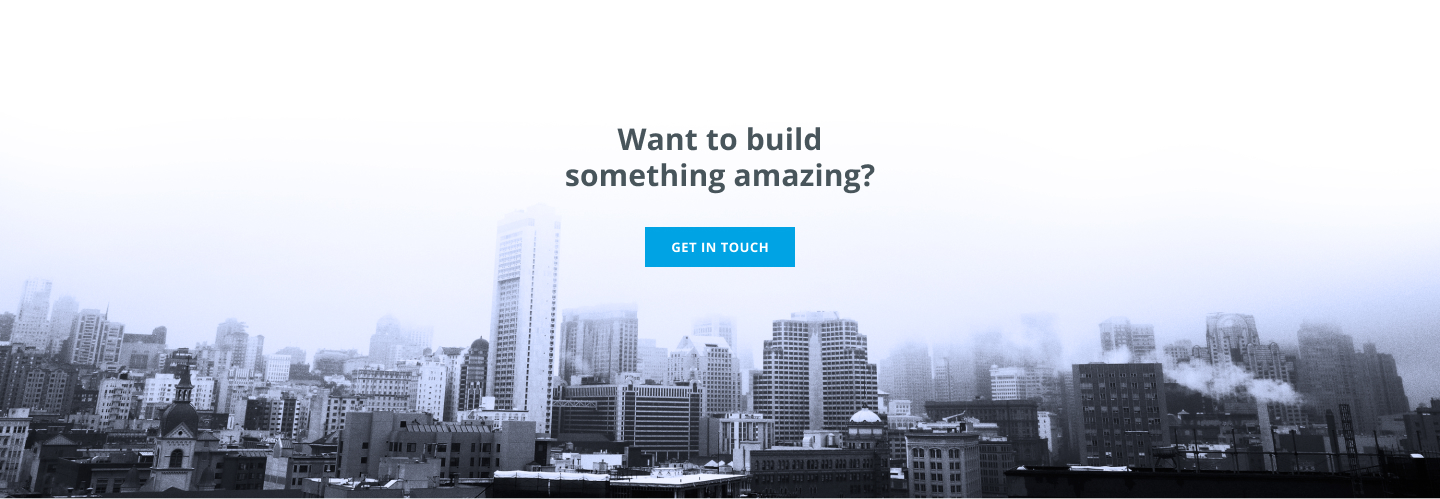
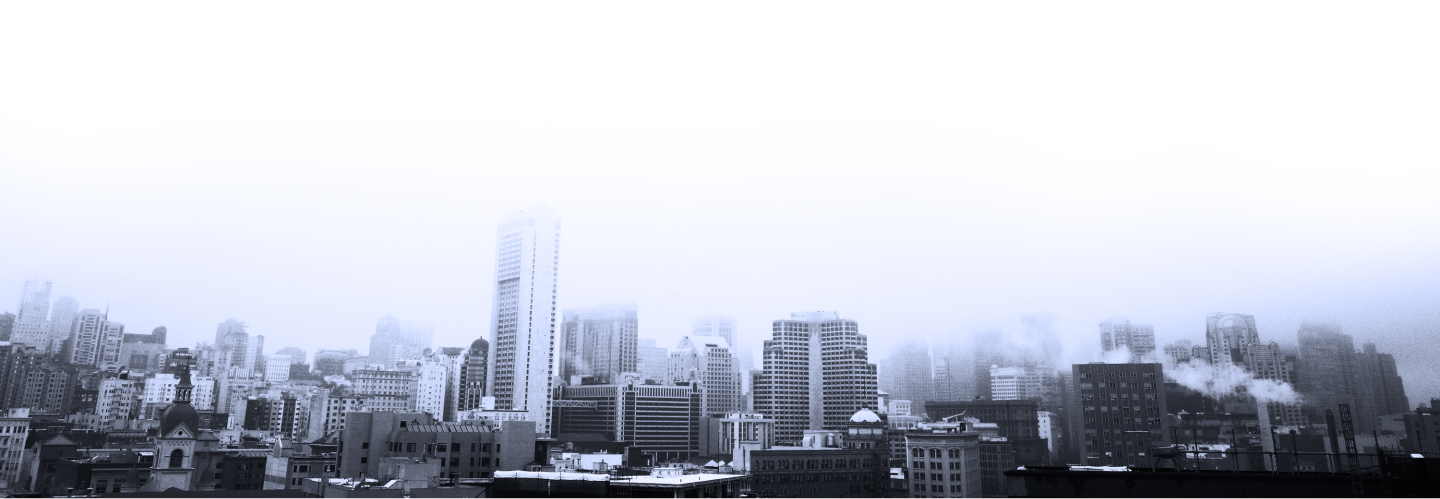
create touch

Changed region(s): [[0.375, 0.3307, 0.625, 0.3908], [0.4375, 0.4509, 0.5625, 0.5411], [0.4062, 0.2405, 0.5938, 0.3006]]

diff --git a/css/style.min.css b/css/style.min.css
@@ -1,1 +1,1 @@
-*,*::before,*::after{padding:0;margin:0;border:0;box-sizing:border-box}a{text-decoration:none}ul,ol,li{list-style:none}img{vertical-align:top}h1,h2,h3,h4,h5,h6{font-weight:inherit;font-size:inherit}.wrapper{min-height:100%;display:flex;flex-direction:column;overflow:hidden}.container{max-width:970px;margin:0 auto;padding:0 15px}html,body{height:100%;line-height:1;font-family:"Open Sans",sans-serif;color:#48555b}.main{flex:1 1 auto}.title{font-size:18px;line-height:21px;text-align:center;letter-spacing:2.30625px;margin-bottom:80px;font-weight:bold}.btn{background:#00a4e5;color:#fff;padding:10px 30px;cursor:pointer;transition:.3s}.btn:hover{background:#48555b}.header{background:url(../img/home-background.jpg);background-repeat:no-repeat;background-position:center center;-webkit-background-size:cover;-moz-background-size:cover;-o-background-size:cover;background-size:cover;min-height:100vh;width:100%;padding:41px 0 71px 0}.header__logo{margin-bottom:308px}.header__container{display:flex;flex-direction:column;align-items:center;color:#fff}.header__title{font-family:"Bebas Neue",cursive;font-size:60px;line-height:70px;letter-spacing:5.70937px;margin-bottom:8px}.header__subtitle{font-size:16px;line-height:19px;margin-bottom:221px}.header__scroll{font-size:11px;line-height:13px;letter-spacing:3.7px}.menu{display:flex;justify-content:space-between;align-items:center;height:65px;margin-bottom:60px}.menu__list{display:flex}.menu__item{margin-right:30px}.menu__item:last-child{margin-right:0}.menu__link{font-family:"OpenSans";font-size:12px;line-height:14px;letter-spacing:1.09091px;color:#48555b;transition:.3s;font-weight:600}.menu__link.active{color:#00a4e5}.menu__link:hover{color:#00a4e5}.story{margin-bottom:120px}.story__content{display:flex}.story__left{max-width:405px;margin-right:80px}.story__title{font-size:18px;line-height:21px;text-align:center;letter-spacing:2.30625px;margin-bottom:80px;font-weight:bold}.story__title::after{content:"";width:50px;height:2px;background-color:#00a4e5;display:block;margin:10px auto 0}.story__content-title{font-size:20px;line-height:23px;letter-spacing:.1875px;margin-bottom:30px;font-weight:bold}.story__content-title span{color:#00a4e5}.story__subtitle{font-size:13px;line-height:23px;letter-spacing:.1875px}.story__card{display:flex;align-items:flex-end}.story__item{font-size:24px;line-height:29px;letter-spacing:.1875px;color:#fff;width:140px;height:224px;font-weight:800;margin-right:20px;padding:15px}.story__item:last-child{margin-right:0}.story__item:nth-child(1){background-image:url(../img/story/plan.jpg)}.story__item:nth-child(2){background-image:url(../img/story/manage.jpg)}.story__item:nth-child(3){background-image:url(../img/story/deliver.jpg)}@media(max-width: 1024px){.story__title{margin-bottom:30px}.story__subtitle{margin-bottom:30px}.story__content{flex-wrap:wrap;justify-content:center}}@media(max-width: 525px){.story__left{margin-right:0}.story__card{flex-wrap:wrap;justify-content:center}.story__item{margin-bottom:30px;margin-right:0}.story__item:last-child{margin-bottom:0}}.capabilities{margin-bottom:115px}.capabilities__info{display:flex;justify-content:space-between;margin-bottom:80px}.capabilities__title{text-align:left;margin-bottom:0}.capabilities__title::after{content:"";width:50px;height:2px;background-color:#00a4e5;display:block;margin:10px 0}.capabilities__subtitle{max-width:405px;margin-right:32px}.capabilities__content{display:flex;justify-content:space-between}.card{max-width:295px;padding:38px 22px;border:1px solid #e6e6e6}.card__title{font-size:16px;line-height:24px;letter-spacing:.426667px;color:#48555b;font-weight:bold;margin-bottom:13px}.card__icon{margin-bottom:25px}@media(max-width: 1024px){.capabilities__info{flex-wrap:wrap;justify-content:center;margin-bottom:50px}.capabilities__content{flex-wrap:wrap;justify-content:center}.capabilities__card{margin-bottom:30px}.capabilities__card:last-child{margin-bottom:0}.capabilities__title{margin-bottom:30px}.capabilities__subtitle{margin-bottom:30px}}/*# sourceMappingURL=style.min.css.map */
+*,*::before,*::after{padding:0;margin:0;border:0;box-sizing:border-box}a{text-decoration:none}ul,ol,li{list-style:none}img{vertical-align:top}h1,h2,h3,h4,h5,h6{font-weight:inherit;font-size:inherit}.wrapper{min-height:100%;display:flex;flex-direction:column;overflow:hidden}.container{max-width:970px;margin:0 auto;padding:0 15px}html,body{height:100%;line-height:1;font-family:"Open Sans",sans-serif;color:#48555b}.main{flex:1 1 auto}.title{font-size:18px;line-height:21px;text-align:center;letter-spacing:2.30625px;margin-bottom:80px;font-weight:bold}.btn{background:#00a4e5;color:#fff;padding:10px 30px;cursor:pointer;transition:.3s}.btn:hover{background:#48555b}.header{background:url(../img/home-background.jpg);background-repeat:no-repeat;background-position:center center;-webkit-background-size:cover;-moz-background-size:cover;-o-background-size:cover;background-size:cover;min-height:100vh;width:100%;padding:41px 0 71px 0}.header__logo{margin-bottom:308px}.header__container{display:flex;flex-direction:column;align-items:center;color:#fff}.header__title{font-family:"Bebas Neue",cursive;font-size:60px;line-height:70px;letter-spacing:5.70937px;margin-bottom:8px}.header__subtitle{font-size:16px;line-height:19px;margin-bottom:221px}.header__scroll{font-size:11px;line-height:13px;letter-spacing:3.7px}.menu{display:flex;justify-content:space-between;align-items:center;height:65px;margin-bottom:60px}.menu__list{display:flex}.menu__item{margin-right:30px}.menu__item:last-child{margin-right:0}.menu__link{font-family:"OpenSans";font-size:12px;line-height:14px;letter-spacing:1.09091px;color:#48555b;transition:.3s;font-weight:600}.menu__link.active{color:#00a4e5}.menu__link:hover{color:#00a4e5}.story{margin-bottom:120px}.story__content{display:flex}.story__left{max-width:405px;margin-right:80px}.story__title{font-size:18px;line-height:21px;text-align:center;letter-spacing:2.30625px;margin-bottom:80px;font-weight:bold}.story__title::after{content:"";width:50px;height:2px;background-color:#00a4e5;display:block;margin:10px auto 0}.story__content-title{font-size:20px;line-height:23px;letter-spacing:.1875px;margin-bottom:30px;font-weight:bold}.story__content-title span{color:#00a4e5}.story__subtitle{font-size:13px;line-height:23px;letter-spacing:.1875px}.story__card{display:flex;align-items:flex-end}.story__item{font-size:24px;line-height:29px;letter-spacing:.1875px;color:#fff;width:140px;height:224px;font-weight:800;margin-right:20px;padding:15px}.story__item:last-child{margin-right:0}.story__item:nth-child(1){background-image:url(../img/story/plan.jpg)}.story__item:nth-child(2){background-image:url(../img/story/manage.jpg)}.story__item:nth-child(3){background-image:url(../img/story/deliver.jpg)}@media(max-width: 1024px){.story__title{margin-bottom:30px}.story__subtitle{margin-bottom:30px}.story__content{flex-wrap:wrap;justify-content:center}}@media(max-width: 525px){.story__left{margin-right:0}.story__card{flex-wrap:wrap;justify-content:center}.story__item{margin-bottom:30px;margin-right:0}.story__item:last-child{margin-bottom:0}}.capabilities{margin-bottom:115px}.capabilities__info{display:flex;justify-content:space-between;margin-bottom:80px}.capabilities__title{text-align:left;margin-bottom:0}.capabilities__title::after{content:"";width:50px;height:2px;background-color:#00a4e5;display:block;margin:10px 0}.capabilities__subtitle{max-width:405px;margin-right:32px}.capabilities__content{display:flex;justify-content:space-between}.card{max-width:295px;padding:38px 22px;border:1px solid #e6e6e6}.card__title{font-size:16px;line-height:24px;letter-spacing:.426667px;color:#48555b;font-weight:bold;margin-bottom:13px}.card__icon{margin-bottom:25px}@media(max-width: 1024px){.capabilities__info{flex-wrap:wrap;justify-content:center;margin-bottom:50px}.capabilities__content{flex-wrap:wrap;justify-content:center}.capabilities__card{margin-bottom:30px}.capabilities__card:last-child{margin-bottom:0}.capabilities__title{margin-bottom:30px}.capabilities__subtitle{margin-bottom:30px}}.touch{background:url(../img/footer-background.jpg);background-repeat:no-repeat;background-position:center center;-webkit-background-size:cover;-moz-background-size:cover;-o-background-size:cover;background-size:cover;min-height:500px}.touch__container{padding-top:120px}.touch__title{margin-bottom:35px;font-weight:bold;font-size:30px;line-height:36px;letter-spacing:.15px}.touch__btn{margin:0 auto;display:block}/*# sourceMappingURL=style.min.css.map */

diff --git a/sass/_touch.sass b/sass/_touch.sass
@@ -1,0 +1,20 @@
+.touch
+    background: url(../img/footer-background.jpg)
+    background-repeat: no-repeat
+    background-position: center center
+    -webkit-background-size: cover
+    -moz-background-size: cover
+    -o-background-size: cover
+    background-size: cover
+    min-height: 500px
+    &__container
+        padding-top: 120px
+    &__title
+        margin-bottom: 35px
+        font-weight: bold
+        font-size: 30px
+        line-height: 36px
+        letter-spacing: 0.15px
+    &__btn
+        margin: $mc
+        display: block

diff --git a/index.html b/index.html
@@ -78,6 +78,12 @@
                     </div>
                 </div>
             </section>
+            <section class="touch">
+                <div class="touch__container container">
+                    <h2 class="touch__title title">Want to build <br>something amazing?</h2>
+                    <button class="touch__btn btn">GET IN TOUCH</button>
+                </div>
+            </section>
         </main>
         <footer class="footer"></footer>
     </div>
